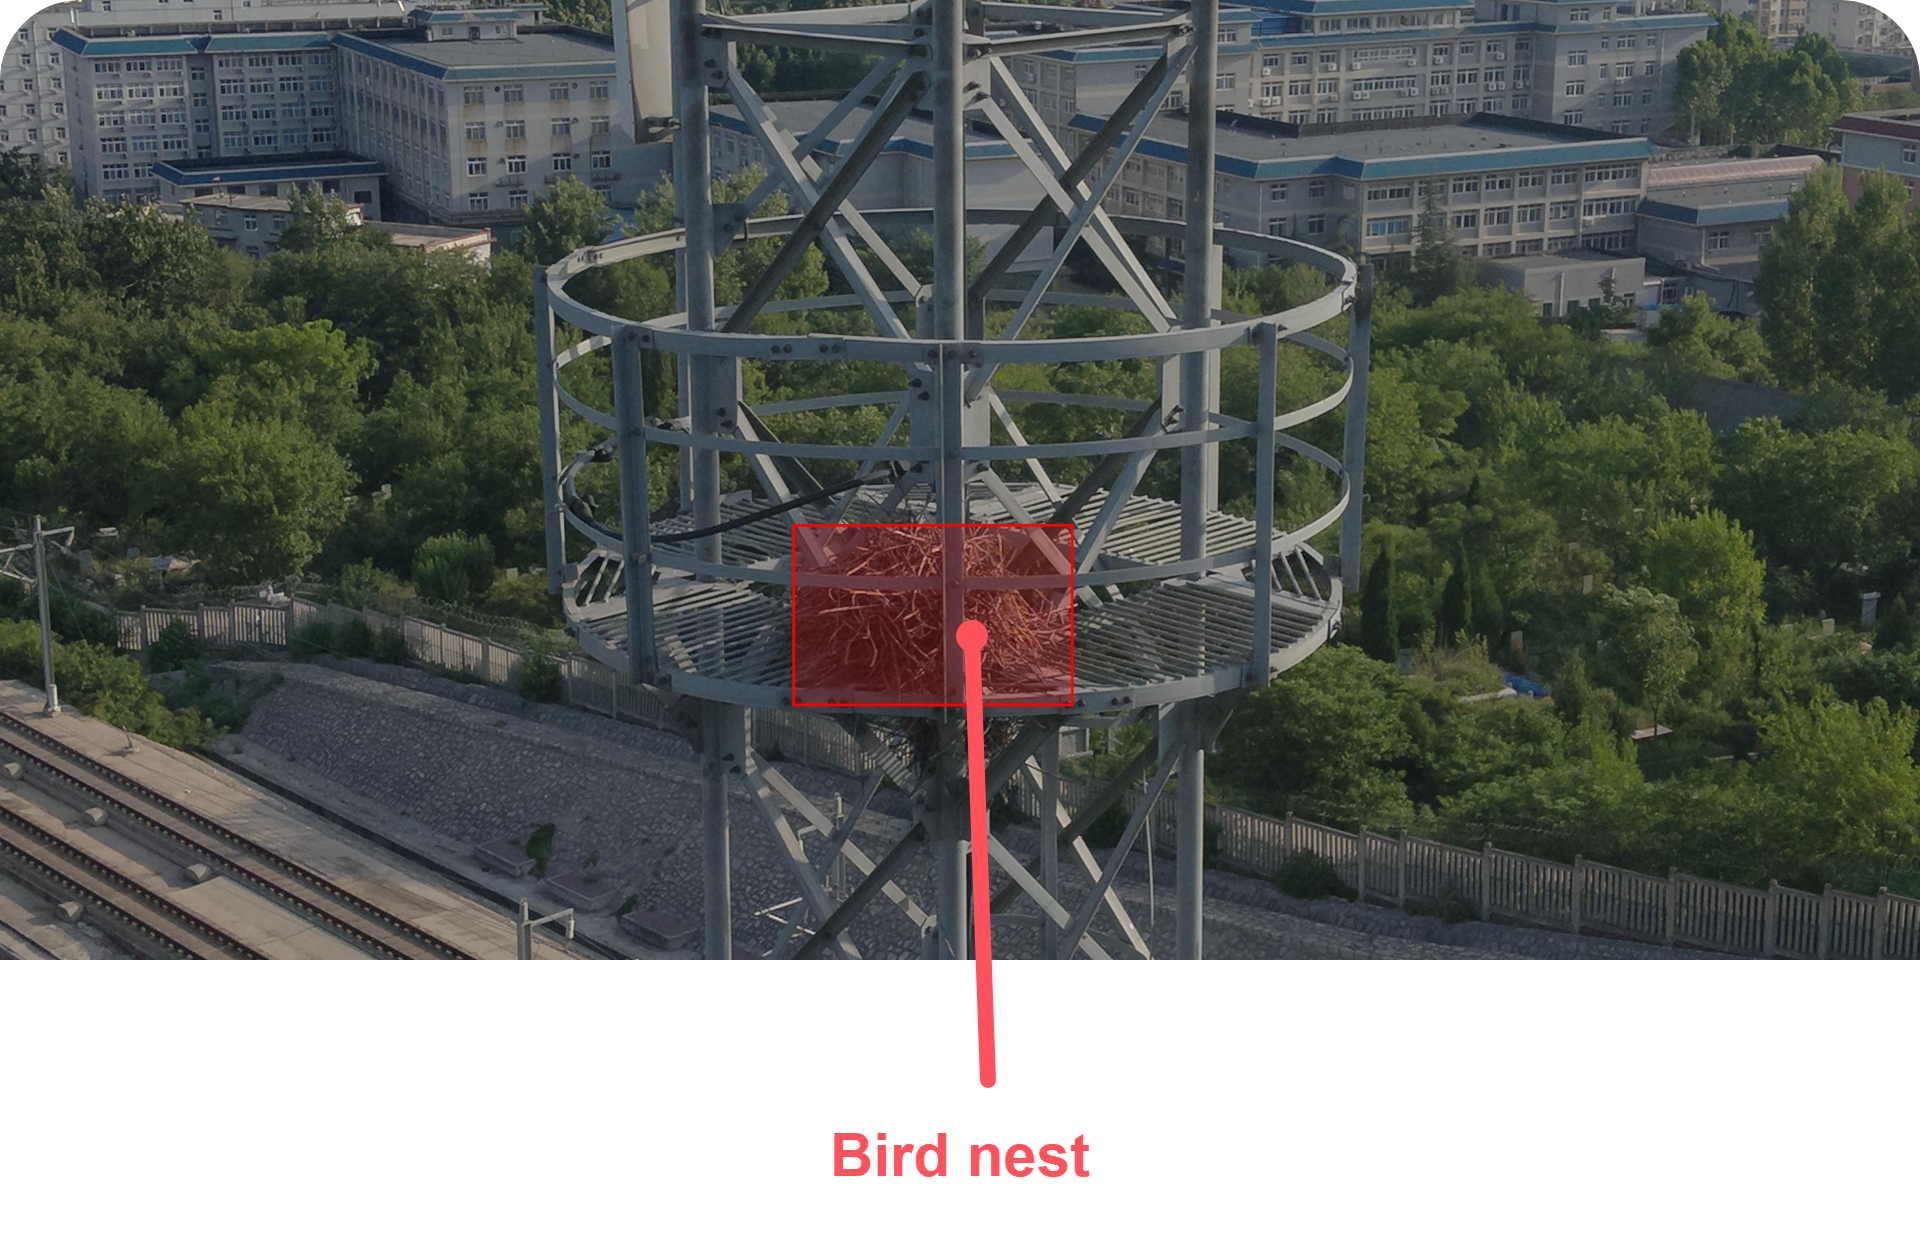
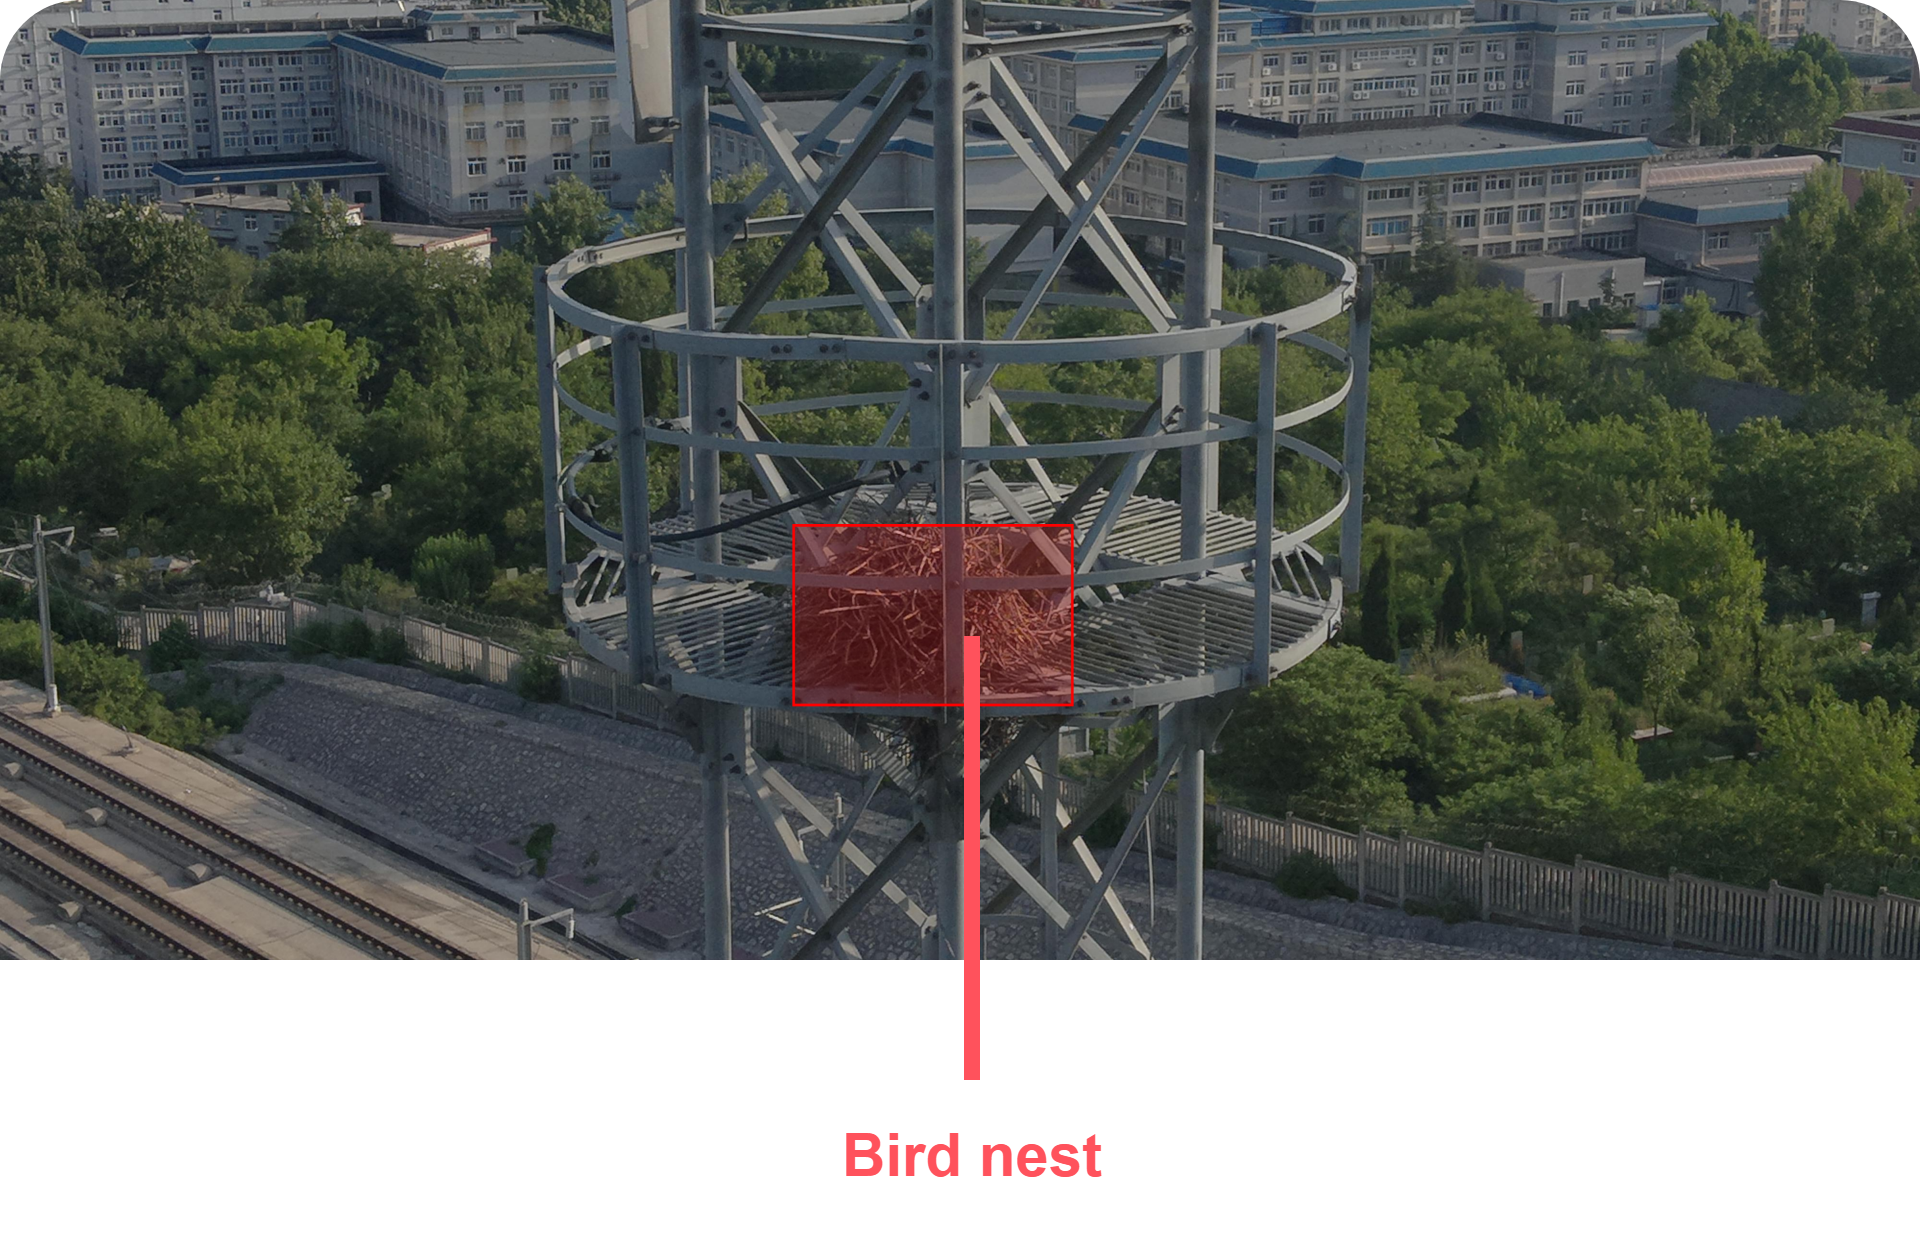
Use straight orthogonal defect callouts and remove original-image links

Changed region(s): [[0.5, 0.5823, 0.5312, 0.8887], [0.4375, 0.8887, 0.5938, 0.95], [0.5, 0.4903, 0.5312, 0.521]]

diff --git a/README.md b/README.md
@@ -12,49 +12,43 @@
 <table>
 <tr>
 <td width="33%" valign="top" align="left">
-<a href="https://chaomacv.github.io/RAIL-SECURTTY-BENCH/assets/images/Catenary%20Pole.png"><img src="docs/assets/scenes/catenary-pole.png" alt="Catenary Pole: highlighted defect with a color-matched callout. Click to open the full-resolution original image." width="100%"></a>
+<img src="docs/assets/scenes/catenary-pole.png" alt="Catenary Pole: highlighted defect with a color-matched callout." width="100%">
 <h3>Catenary Pole</h3>
 <p>Bird nests and other attachments may compromise overhead electrical clearances. Severe intrusion can contribute to flashover and traction-power interruption.</p>
-<p><a href="https://chaomacv.github.io/RAIL-SECURTTY-BENCH/assets/images/Catenary%20Pole.png">View original · 5760 × 4320</a></p>
 </td>
 <td width="33%" valign="top" align="left">
-<a href="https://chaomacv.github.io/RAIL-SECURTTY-BENCH/assets/images/Environment.png"><img src="docs/assets/scenes/environment.png" alt="Environment: highlighted defect with a color-matched callout. Click to open the full-resolution original image." width="100%"></a>
+<img src="docs/assets/scenes/environment.png" alt="Environment: highlighted defect with a color-matched callout." width="100%">
 <h3>Environment</h3>
 <p>Plastic film, waste and intrusive objects may enter the track area or contact electrical equipment. Severe intrusion can disrupt train operation or power supply.</p>
-<p><a href="https://chaomacv.github.io/RAIL-SECURTTY-BENCH/assets/images/Environment.png">View original · 5760 × 4320</a></p>
 </td>
 <td width="33%" valign="top" align="left">
-<a href="https://chaomacv.github.io/RAIL-SECURTTY-BENCH/assets/images/Noise%20Barrier.png"><img src="docs/assets/scenes/noise-barrier.png" alt="Noise Barrier: highlighted defect with a color-matched callout. Click to open the full-resolution original image." width="100%"></a>
+<img src="docs/assets/scenes/noise-barrier.png" alt="Noise Barrier: highlighted defect with a color-matched callout." width="100%">
 <h3>Noise Barrier</h3>
 <p>Panel and column corrosion, together with deteriorated mortar, may weaken barrier integrity. Advanced damage can cause loose or falling components near the railway.</p>
-<p><a href="https://chaomacv.github.io/RAIL-SECURTTY-BENCH/assets/images/Noise%20Barrier.png">View original · 5760 × 4320</a></p>
 </td>
 </tr>
 <tr>
 <td width="33%" valign="top" align="left">
-<a href="https://chaomacv.github.io/RAIL-SECURTTY-BENCH/assets/images/Power%20Tower.png"><img src="docs/assets/scenes/power-tower.png" alt="Power Tower: highlighted defect with a color-matched callout. Click to open the full-resolution original image." width="100%"></a>
+<img src="docs/assets/scenes/power-tower.png" alt="Power Tower: highlighted defect with a color-matched callout." width="100%">
 <h3>Power Tower</h3>
 <p>Bird nests, foreign objects and loose antenna bolts may impair electrical clearances or attachment stability. Severe cases can involve electrical faults or falling components.</p>
-<p><a href="https://chaomacv.github.io/RAIL-SECURTTY-BENCH/assets/images/Power%20Tower.png">View original · 5760 × 4320</a></p>
 </td>
 <td width="33%" valign="top" align="left">
-<a href="https://chaomacv.github.io/RAIL-SECURTTY-BENCH/assets/images/Rail%20Track.png"><img src="docs/assets/scenes/rail-track.png" alt="Rail Track: highlighted defect with a color-matched callout. Click to open the full-resolution original image." width="100%"></a>
+<img src="docs/assets/scenes/rail-track.png" alt="Rail Track: highlighted defect with a color-matched callout." width="100%">
 <h3>Rail Track</h3>
 <p>Missing or cracked fasteners may weaken rail restraint and track stability. Widespread or progressive damage can pose a serious risk to safe train running.</p>
-<p><a href="https://chaomacv.github.io/RAIL-SECURTTY-BENCH/assets/images/Rail%20Track.png">View original · 5760 × 4320</a></p>
 </td>
 <td width="33%" valign="top" align="left">
-<a href="https://chaomacv.github.io/RAIL-SECURTTY-BENCH/assets/images/Steel%20Bridge.png"><img src="docs/assets/scenes/steel-bridge.png" alt="Steel Bridge: highlighted defect with a color-matched callout. Click to open the full-resolution original image." width="100%"></a>
+<img src="docs/assets/scenes/steel-bridge.png" alt="Steel Bridge: highlighted defect with a color-matched callout." width="100%">
 <h3>Steel Bridge</h3>
 <p>Missing bolts, coating damage and guardrail corrosion may compromise connections and durability. Advanced deterioration can threaten structural or maintenance-access safety.</p>
-<p><a href="https://chaomacv.github.io/RAIL-SECURTTY-BENCH/assets/images/Steel%20Bridge.png">View original · 5760 × 4320</a></p>
 </td>
 </tr>
 </table>
 
 </div>
 
-*Click any scene to open its original 5760 × 4320 PNG from the public Rail-Security-Bench project. Color-matched callouts guide attention to the existing image overlays; they are not new RailMind predictions. Safety consequences are qualitative and depend on defect extent and operating conditions.*
+*Color-matched callouts highlight defects in the existing benchmark illustrations; they are not new RailMind predictions. Safety consequences depend on defect extent and operating conditions.*
 
 <div align="center">
 
